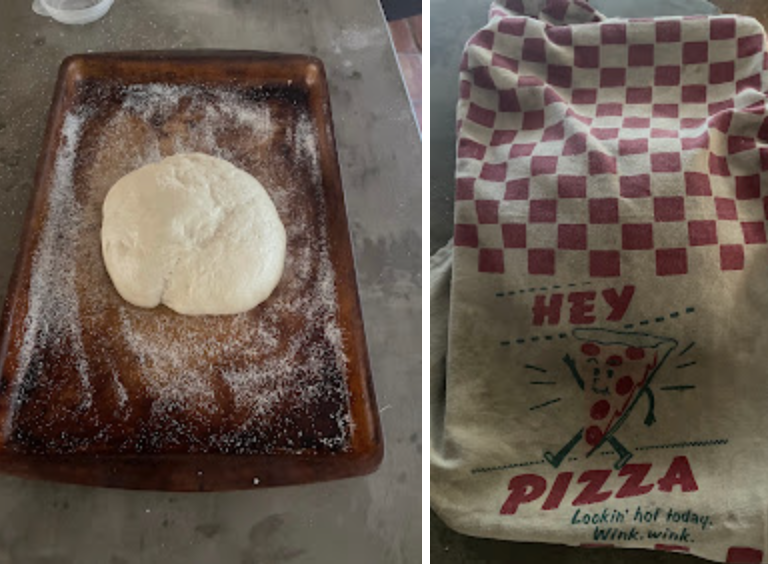
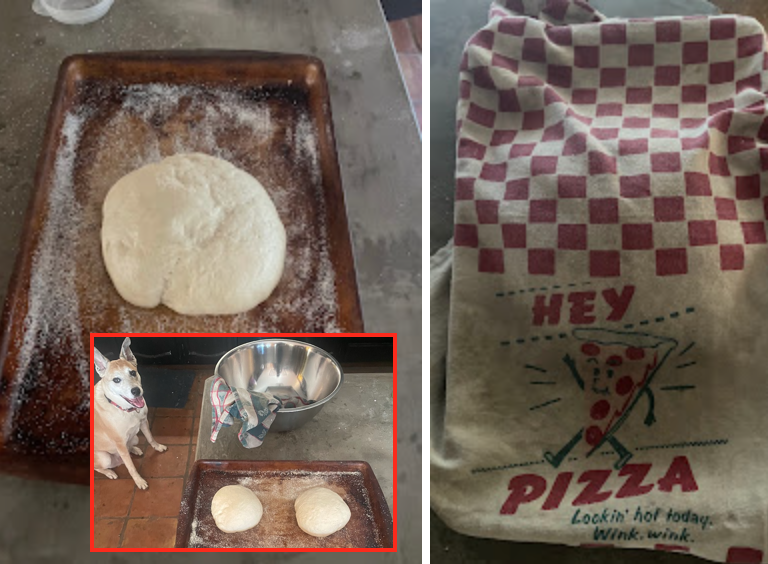
added more pic and video content and some hyperspear chapters edits

Changed region(s): [[0.0938, 0.5727, 0.5312, 0.9947]]

diff --git a/landingPages/hyperspearch1to3.html b/landingPages/hyperspearch1to3.html
@@ -55,13 +55,13 @@
                 <p><strong>I thought this would be an interesting way to concisely convey some important information to the reader without having to include those details in contrived dialogue or narration.&nbsp;</strong></p>
                 <p>&nbsp;</p>
                 <p><strong>If the story jumps forward or backward in time within a chapter, the updated time and setting are displayed in the following format:</strong><strong><br /></strong><strong>Timestamp | H-ID | Details&nbsp;</strong></p>
-                <p><span style="font-weight: 300;">(Year, Month, Day, time in 24 hour format, timezone|extraneous detail|setting)</span></p>
+                <p><span style="font-weight: 300;">(Year, Month, Day, time in 24-hour format, timezone|extraneous detail|setting)</span></p>
                 <p><strong>&nbsp;</strong></p>
                 <p><br /><br /><br /><br /></p>
                 <p>
-                    <strong>1:</strong><strong> Filename:&nbsp; &lsquo; Jenna&rsquo;s Halibut Of Eating Alone&rsquo;,</strong>
+                    <strong>1:</strong><strong> Filename:&nbsp; &lsquo; Jenna Breaks Her Halibut Of Eating Alone&rsquo;,</strong>
                 </p>
-                <p><strong>Timestamp: 2042-08-15T18:22:37:PST</strong><span style="font-weight: 300;">,</span></p>
+                <p><strong>Timestamp: 2042-08-15T17:52:37:PST</strong><span style="font-weight: 300;">,</span></p>
                 <p><strong>Details: &lsquo;Jenna Carson, Fremont-CA, Neighborhoods&rsquo;,&nbsp;</strong></p>
                 <p><strong>H-ID: 28d0086c-da60-44e5-9c9b-54abfbe4154c,</strong></p>
                 <p><strong>Transcript:</strong></p>
@@ -77,19 +77,17 @@
                 <p><span style="font-weight: 300;">&ldquo;I noticed that.&rdquo; His dark eyes twinkle as he sets the pitcher next to a cluster of mason jars in the middle of the table.&nbsp;</span></p>
                 <p><span style="font-weight: 300;">&ldquo;Fresh from the tree this morning.&rdquo; He jerks his thumb over his shoulder indicating the lollipop lemon trees.&nbsp;</span></p>
                 <p><span style="font-weight: 300;">&ldquo;It&rsquo;s really good.&rdquo; I take a sip. &ldquo;Actually&rdquo; I smile, my eyes fixed on the lollipop trees.&nbsp; &ldquo;It r</span><span style="font-weight: 300;">eminds</span><span style="font-weight: 300;"> me of my mom&rsquo;s lemonade,&rdquo; I sigh, &ldquo;she always used to make it from scratch with Meyer lemons and a couple basil leaves.&rdquo; My eyes and tone droop. &ldquo;It's been a long time since I had fresh lemonade.&rdquo;</span></p>
-                <p><span style="font-weight: 300;">&nbsp;</span> <span style="font-weight: 300;">The man&rsquo;s brow slopes sympathetically. &ldquo;Life doesn&rsquo;t just go around handing folks lemons.&rdquo; He clanks his glass down on the table and gestures around his yard. &ldquo;You&rsquo;ve gotta turn some soil and&nbsp; plant some trees if you want good lemonade.&rdquo;</span></p>
-                <p><span style="font-weight: 300;">I chuckle.</span></p>
-                <p><span style="font-weight: 300;">&ldquo;By the way,&rdquo; he extends his hand towards me, &ldquo;I&rsquo;m Jeff.&rdquo;&nbsp;</span></p>
+                <p><span style="font-weight: 300;">&nbsp;</span> <span style="font-weight: 300;">The man&rsquo;s brow slopes sympathetically. &ldquo;Life doesn&rsquo;t just go around handing folks lemons.&rdquo; He clanks his glass down on the table and gestures around his yard. &ldquo;You&rsquo;ve gotta turn some soil and&nbsp; plant some trees if you want good lemonade.&rdquo; He extends his hand towards me. &ldquo;By the way, I&rsquo;m Jeff.&rdquo;</span></p>
                 <p><span style="font-weight: 300;">&ldquo;Sorry&rdquo;, I wince as I envelop his dry rough hand in my frail sweating one. &ldquo;I&rsquo;m Jenna.&rdquo; I laugh nervously. &ldquo;I saw the pitcher of&nbsp; lemonade and all the empty mason jars and I guess I thought I was supposed to just sit down and have some.&rdquo;&nbsp;</span></p>
                 <p><span style="font-weight: 300;">&ldquo;And you were right.&rdquo; He grins. &ldquo;Do you have a house in this neighborhood?&rdquo;</span></p>
                 <p><span style="font-weight: 300;">&ldquo;I wish.&rdquo;&nbsp; I press the mason jar to my face. &ldquo;Actually, I was stuck in traffic next to your van this morning, so I scanned the QR code on it and went to your website.&rdquo; I lower my lemonade, affixing my gaze to his, &ldquo;but I&rsquo;m still a bit confused about what you&rsquo;re doing.&rdquo;&nbsp;</span></p>
                 <p><span style="font-weight: 300;">He shrugs. &ldquo;I&rsquo;m just gathering folks together to share a meal once a week.&rdquo;</span></p>
                 <p><span style="font-weight: 300;">&nbsp;</span> <em><span style="font-weight: 300;">Why does that sound so nice and so creepy at the same time?</span></em></p>
-                <p><span style="font-weight: 300;">&nbsp;&nbsp;</span> <span style="font-weight: 300;">I nod, waiting for him to say more, but he just starts sipping his lemonade.</span></p>
+                <p><span style="font-weight: 300;">&nbsp;&nbsp;</span> <span style="font-weight: 300;">I wait for him to say more, but he just starts sipping his lemonade.</span></p>
                 <p><span style="font-weight: 300;">&nbsp;&ldquo;So are the others coming later or&hellip;?&rdquo; My voice trails off</span></p>
-                <p><span style="font-weight: 300;">&nbsp;</span> <span style="font-weight: 300;">&ldquo;Dinner&rsquo;s at 6:30.&rdquo; The man shrugs, &ldquo;and I don&rsquo;t require an RSVP.&rdquo;</span></p>
-                <p><span style="font-weight: 300;">I nod, as if this is a satisfying response. But it&rsquo;s not. Not knowing how many strangers are going to be elbow to elbow with me at this table stresses me out.</span></p>
-                <p><span style="font-weight: 300;">The intricate symphony of birds and insects chirping and buzzing around us is starting to remind me of the quiet moment before the jump scare in a horror film.</span></p>
+                <p><span style="font-weight: 300;">&nbsp;</span> <span style="font-weight: 300;">&ldquo;It's like my website says, dinner’s at 6:30.No RSVP required.” Jeff shrugs.</span></p>
+                <p><span style="font-weight: 300;">I nod, as if this is a satisfying response. But it&rsquo;s not. Not knowing how many strangers are going to be elbow to elbow with me at this table stresses me out,</span></p>
+                <p><span style="font-weight: 300;">and the intricate symphony of birds and insects chirping and buzzing around us is starting to remind me of the quiet moment before the jump scare in a horror film.</span></p>
                 <p><span style="font-weight: 300;">I take another sip of lemonade swishing the sweet-tart-wholesome goodness around my mouth.&nbsp;</span></p>
                 <p><span style="font-weight: 300;">He sips from his jar.</span></p>
                 <p><em><span style="font-weight: 300;">Why did I come here? I could be home on my couch in my underwear, eating cold chow mein and playing Skyrim right now, but nooo, I haaad to see the sign on this guy&rsquo;s stupid van.</span></em></p>
@@ -100,7 +98,7 @@
                 <p><span style="font-weight: 300;">He sips from his jar.</span><span style="font-weight: 300;"><br /></span> <span style="font-weight: 300;">I set my jar on the table and stare at it trying to mentally assess my internal organs for signs of poisoning.&nbsp;</span></p>
                 <p><span style="font-weight: 300;">He sips from his jar.</span></p>
                 <p><em><span style="font-weight: 300;">The plants are pretty tall. I wonder if this picnic table is even visible from across the street. </span></em><em><span style="font-weight: 300;"><br /></span></em> <span style="font-weight: 300;">He sips.</span></p>
-                <p><span style="font-weight: 300;">I imagine myself sprinting through the sunflowers and across the street to my car.</span></p>
+                <p><span style="font-weight: 300;">I imagine myself sprinting through the sunflowers to my car.</span></p>
                 <p><span style="font-weight: 300;">He sips.</span></p>
                 <p><span style="font-weight: 300;">My sense of propriety glues me to the picnic bench.</span></p>
                 <p><span style="font-weight: 300;">&nbsp;</span> <span style="font-weight: 300;">Ice clinks at the bottom of Jeff&rsquo;s mason jar. &ldquo;So tell me Jenna,&rdquo;&nbsp; he lets out a satisfied sigh as he sets the empty jar on the table, &ldquo; If a Martian observed you through a super-powered telescope for the last year, what would he say about you?&rdquo;</span></p>
@@ -111,7 +109,7 @@
                 <p><em><span style="font-weight: 300;">Why do I always show up so early for everything.&nbsp;</span></em></p>
                 <p><span style="font-weight: 300;">I take another sip of lemonade. I think I detect a bitter note to it.&nbsp;</span></p>
                 <p><span style="font-weight: 300;">I don&rsquo;t swallow.&nbsp;</span></p>
-                <p><span style="font-weight: 300;">I raise my jar back to my lips and subtly spit my lemonade back in. &ldquo;So why have dinner with strangers?&rdquo;</span></p>
+                <p><span style="font-weight: 300;">Raising my jar back to my lips, I subtly spit lemonade back in. &ldquo;So why have dinner with strangers?&rdquo;</span></p>
                 <p><span style="font-weight: 300;">&nbsp;</span> <span style="font-weight: 300;">Jeff narrows his eyes at my lemonade jar, clearly nonplussed by my backwash.</span></p>
                 <p><span style="font-weight: 300;">&ldquo;I almost swallowed a seed.&rdquo; I lie.</span></p>
                 <p><span style="font-weight: 300;">&nbsp;</span> <span style="font-weight: 300;">&ldquo;You must be pretty hungry then&rdquo;, Jeff winks &ldquo;I&rsquo;m making baked Halibut and rice for dinner.&rdquo;&nbsp; He presses himself up from the table. &ldquo;Would you mind carrying some things out from the house?&rdquo;&nbsp;</span></p>
@@ -124,7 +122,6 @@
                 <p><span style="font-weight: 300;">&nbsp;</span> <span style="font-weight: 300;">He flashes an amused smile. &ldquo;Alright. I&rsquo;m in the Halibut of eating alone anyway.&rdquo;</span></p>
                 <p><span style="font-weight: 300;">&ldquo;Sorry.&rdquo; I wince. &ldquo;I can&rsquo;t believe I forgot.&rdquo; I slide my purse strap over my shoulder. &ldquo;I share custody of him with my ex, so I totally spaced that today is my turn.&rdquo;</span></p>
                 <p><span style="font-weight: 300;">I scuffle down the gravel path tossing a quick. &ldquo;Thanks-again-see-you-around.&rdquo; Over my shoulder as I dart across the street.</span></p>
-                <p>&nbsp;</p>
                 <p><span style="font-weight: 300;">&nbsp;</span> <span style="font-weight: 300;">Grimacing, I fumble for the blazing hot door handle to my baby blue Kharmann Ghia and slide inside letting out a deep sigh of relief as I crank down the manual windows.&nbsp;</span></p>
                 <p><span style="font-weight: 300;">Without glancing back at Jeff&rsquo;s house, I jam my key into the ignition and turn it.&nbsp;</span></p>
                 <p><span style="font-weight: 300;">A muffled &ldquo;Vrrwuuhh&rdquo; issues from my engine.</span></p>
@@ -144,15 +141,15 @@
                 <p><span style="font-weight: 300;">She acts like she doesn&rsquo;t hear me.</span></p>
                 <p><span style="font-weight: 300;">&ldquo;Excuse me,&rdquo; I flail my hands over my head.</span><span style="font-weight: 300;"><br /></span> <span style="font-weight: 300;">Huffing, she silences her disc man as she jogs towards me.</span></p>
                 <p><span style="font-weight: 300;">&ldquo;Sup?&rdquo; the neon lady pants, jogging in place in front of me &ldquo;Do you need something?&rdquo;</span></p>
-                <p><span style="font-weight: 300;">I smile hopefully. &ldquo;My car battery died I think.&rdquo; I push my door shut. &ldquo;Do you live around here? Do you have jumper cables I could use?&rdquo;&nbsp;</span></p>
+                <p><span style="font-weight: 300;">I smile, hopefully. &ldquo;My car battery died I think.&rdquo; I push my door shut. &ldquo;Do you live around here? Do you have jumper cables I could use?&rdquo;&nbsp;</span></p>
                 <p><span style="font-weight: 300;">Dabbing at her eyelid sweat with the corner of her pink t-shirt, her face pixelates.</span></p>
                 <p><span style="font-weight: 300;">As I wait for her glitch to pass, I glance behind me. Jeff is no longer at the picnic table.&nbsp;</span></p>
-                <p><span style="font-weight: 300;">&ldquo;I don&rsquo;t have jumper cables.&rdquo; The woman&rsquo;s face is back to normal, &ldquo;but I bet my friend Jeff does.&rdquo;</span></p>
+                <p><span style="font-weight: 300;">&ldquo;I don't have jumper cables.&rdquo; The woman&rsquo;s face is back to normal, &ldquo;but I bet my friend Jeff does.&rdquo;</span></p>
                 <p><span style="font-weight: 300;">She stops jogging in place and yells, &ldquo;Hey Jeff.&rdquo; She points at me, &ldquo;this girl needs help jump-starting her car.&rdquo;</span></p>
                 <p><span style="font-weight: 300;">Wincing, I turn back toward Jeff&rsquo;s yard. He&rsquo;s already walking down his front path carrying jumper cables.</span></p>
                 <p>&nbsp;</p>
                 <p><strong>2042-08-15T20:37:04PST|28d0086c-da60-44e5-9c9b-54abfbe4154c|&lsquo;later at Jenna\&rsquo;s Apartment</strong><span style="font-weight: 300;">&rsquo;</span></p>
-                <p><span style="font-weight: 300;">&nbsp;</span> <span style="font-weight: 300;">&ldquo;He&rsquo;s a mutt, they said he&rsquo;s a Terrier-Shepherd mix.&rdquo; I smile at my friend, Xenia as I push aside my plastic vertical blinds and slide open my glass patio door.</span></p>
+                <p><span style="font-weight: 300;">&nbsp;</span> <span style="font-weight: 300;">&ldquo;The lady who sold him to me said he&rsquo;s a Terrier-Shepherd mix.&rdquo; I smile at my friend, Xenia as I push aside my plastic vertical blinds and slide open my glass patio door.</span></p>
                 <p><span style="font-weight: 300;">&nbsp;</span> <span style="font-weight: 300;">Pajama, my new dog, wags his tail looking up innocently from my patio floor as he chomps on bits of the leg from my blue Adirondack chair.&nbsp;</span></p>
                 <p><span style="font-weight: 300;">&nbsp;</span> <span style="font-weight: 300;">&ldquo;I don&rsquo;t know about Shepherd,&rdquo; Xenia cringes, &ldquo;but he&rsquo;s definitely terrier&rsquo;n your chair up.&rdquo;</span></p>
                 <p><span style="font-weight: 300;">&nbsp;</span> <span style="font-weight: 300;">I stifle a laugh as I squat to face my new dog. &ldquo;I don&rsquo;t think this patio is big enough for him.&rdquo; I reach a tentative hand towards Pajama and a low growl escapes his throat as I tug at the mangled wood clenched in his teeth.</span></p>
@@ -160,33 +157,33 @@
                 <p><span style="font-weight: 300;">&nbsp;</span> <span style="font-weight: 300;">&ldquo;Lets not find out.&rdquo; Xenia kneels and in one swift motion, yanks the wood free from Pajama&rsquo;s jaws and tosses it over my patio wall.</span></p>
                 <p><span style="font-weight: 300;">&nbsp;</span> <span style="font-weight: 300;">&ldquo;You're our hero.&rdquo; I beam at Xenia. &ldquo;I think I&rsquo;m going to have to find a place with a yard.&rdquo;</span></p>
                 <p><span style="font-weight: 300;">&nbsp;</span> <span style="font-weight: 300;">Xenia slumps forward as she sits in the (now damaged) chair next to Pajama, scratching him between the ears.</span></p>
-                <p><span style="font-weight: 300;">&nbsp;&ldquo;Let me get this straight,&rdquo; she chuckles, &ldquo;you bought a dog, so you&rsquo;d feel comfortable going to dinner at some stranger&rsquo;s house and now you&rsquo;re going to buy a house to make the dog feel more comfortable.&rdquo;&nbsp;</span></p>
+                <p><span style="font-weight: 300;">&nbsp;&ldquo;Let me get this straight,&rdquo; she chuckles, &ldquo;you bought a dog, so you&rsquo;d feel comfortable going to dinner at some stranger&rsquo;s house and now you&rsquo;re going to buy a house to make the dog feel more comfortable?&rdquo;&nbsp;</span></p>
                 <p><span style="font-weight: 300;">Xenia shades her eyes and looks up at me tauntingly. &ldquo;Where have I heard this before?&rdquo; A grin spreads across her face as she begins singing. &ldquo;There was an old lady who swallowed a fly.&rdquo;</span></p>
                 <p><span style="font-weight: 300;">&nbsp;</span> <span style="font-weight: 300;">&ldquo;Oh stop.&rdquo; I air-swat her. &ldquo;Pajama&rsquo;s the only one around here swallowing flies.&rdquo;&nbsp;</span></p>
-                <p><span style="font-weight: 300;">&nbsp;</span> <span style="font-weight: 300;"> Xenia leans back, crossing her arms. &ldquo;You better take him to training classes. &lsquo;Cause Pajama looks like he&rsquo;s fixin&rsquo; to terrier couch next.&rdquo;</span></p>
+                <p><span style="font-weight: 300;">&nbsp;</span> <span style="font-weight: 300;"> Xenia leans back, crossing her arms. &ldquo;You better take him to training classes. &lsquo;Cause Pajama looks like he&rsquo;s fixin&rsquo; to terrier couch up next.&rdquo;</span></p>
                 <p><span style="font-weight: 300;">&nbsp;</span> <span style="font-weight: 300;">&ldquo;Definitely.&rdquo; I nod.</span></p>
                 <p><span style="font-weight: 300;">&ldquo;Hey,&rdquo; I nudge Xenia, &ldquo;why don&rsquo;t you come with me to dinner next week?&rdquo; I hug her arm. &ldquo;From what I could smell, I think he&rsquo;s a really good cook.&rdquo;</span></p>
-                <p><span style="font-weight: 300;">&nbsp;</span> <span style="font-weight: 300;">&ldquo;And I&rsquo;ll bet he loved having a fresh young girl to share his fresh fish with!&rdquo; Xenia, tosses her black curls over her shoulder, eying her fingernail polish. &ldquo;He sounds like some kind of Traddy Daddy cult leader.&rdquo;</span></p>
-                <p><span style="font-weight: 300;">I cringe, recalling his flannel shirt and unsettling hospitality. &ldquo;He did kind of have an old farmer seeks young milk maid, kinda vibe.&rdquo;&nbsp;&nbsp;</span></p>
+                <p><span style="font-weight: 300;">&nbsp;</span> <span style="font-weight: 300;">&ldquo;And I&rsquo;ll bet he loved having a fresh young girl to share fresh fish with!&rdquo; Xenia, tosses her black curls over her shoulder, eying her fingernail polish. &ldquo;He sounds like some kind of Traddy daddy cult leader.&rdquo;</span></p>
+                <p><span style="font-weight: 300;">I cringe, recalling his flannel shirt and unsettling hospitality. &ldquo;He did mention UFOs.&rdquo;&nbsp;&nbsp;</span></p>
                 <p><span style="font-weight: 300;">&ldquo;Seriously though.&rdquo; I pause until Xenia looks up from her nails. &ldquo;Please come with me.&rdquo;&nbsp;</span></p>
                 <p><span style="font-weight: 300;">Xenia rolls her eyes. &ldquo;Fine, glitch.&rdquo; She envelops me in a side hug. &ldquo;If you want, I&rsquo;ll even stay here tonight and protect you from your guard dog.&rdquo;</span></p>
                 <p><br /><br /><br /><br /></p>
                 <p><strong>2:</strong> <strong>Filename: &lsquo;Xenia Melon Balls Out Of Control&rsquo;,</strong></p>
-                <p><strong>Timestamp: 2042-08-22T18:34:37:PST,</strong><span style="font-weight: 300;">&nbsp;</span></p>
+                <p><strong>Timestamp: 2042-08-22T18:22:37:PST,</strong><span style="font-weight: 300;">&nbsp;</span></p>
                 <p><strong>Details: &lsquo;Xenia Chloros, Fremont-CA, Neighborhoods&rsquo;,</strong></p>
                 <p><strong>H-ID: 81feeffe-0067-4226-9c41-313509217b49,</strong></p>
                 <p><strong>Transcript:</strong></p>
                 <p>&nbsp;</p>
                 <p><span style="font-weight: 300;">&nbsp;</span> <span style="font-weight: 300;">Exasperated, I let my head thud against the back window of my black 1959 F-100 as I squeeze my eyes shut.&nbsp;</span></p>
-                <p><span style="font-weight: 300;">Crunching the last bits of a peach lollipop between my molars, cellphone pressed to my temple, I wait for Jenna&rsquo;s voicemail robot to finish reading her number to me.&nbsp; &ldquo;Glitch!&rdquo; I chomp my candy. &ldquo;I&rsquo;m here, where are you?&rdquo; I hang up.</span></p>
+                <p><span style="font-weight: 300;">Cellphone pressed to my temple, I crunch the last bits of a peach lollipop between my molars and wait for Jenna&rsquo;s voicemail robot to finish reading her number to me.&nbsp; &ldquo;Glitch!&rdquo; I chomp my candy. &ldquo;I&rsquo;m here, where are you?&rdquo; I hang up.</span></p>
                 <p><span style="font-weight: 300;">&nbsp;</span> <em><span style="font-weight: 300;">I&rsquo;m giving her five minutes, then I&rsquo;m gone.</span></em></p>
                 <p><span style="font-weight: 300;">&nbsp;</span> <span style="font-weight: 300;">I glance at the clock on my phone.</span></p>
                 <p><span style="font-weight: 300;">6:22 PM</span></p>
-                <p><span style="font-weight: 300;">Whap-whap-whap! someone taps on my truck&rsquo;s window.&nbsp;</span></p>
-                <p><span style="font-weight: 300;">Sucking in air, I reel around to face some gray-bearded hippy with his knuckle resting on my window.&nbsp;</span></p>
+                <p><span style="font-weight: 300;">Whap-whap-whap! someone raps on my truck&rsquo;s window.&nbsp;</span></p>
+                <p><span style="font-weight: 300;">Sucking in air, I reel around to face some gray-bearded hippy waving at me.&nbsp;</span></p>
                 <p><span style="font-weight: 300;">He&rsquo;s tucked his black and blue plaid button up into his three-sizes-too-big jeans and the whole outfit is being held together by a beige nylon belt.</span></p>
                 <p><span style="font-weight: 300;">&ldquo;I noticed you&rsquo;ve been eyeing my house for at least ten minutes.&rdquo; He smiles. &ldquo;You here for dinner?&rdquo;</span></p>
-                <p><span style="font-weight: 300;">&nbsp;</span> <span style="font-weight: 300;">&ldquo;Yeah.&rdquo; Peeling up my sunglasses, I narrow my eyes. &ldquo;My friend Jenna invited me.&rdquo; I swing my door open forcing him to step back. &ldquo;She wanted me to protect her from the psycho-hippie-ufo-cult guy that lives here.&rdquo;</span></p>
+                <p><span style="font-weight: 300;">&nbsp;</span> <span style="font-weight: 300;">Peeling up my sunglasses, I narrow my eyes. &ldquo;Yup. My friend Jenna invited me.&rdquo; I swing my door open forcing him to step back. &ldquo;She wanted me to protect her from the psycho-hippie-ufo-cult guy that lives here.&rdquo;</span></p>
                 <p><span style="font-weight: 300;">&ldquo;Is that so?&rdquo; He chortles.</span></p>
                 <p><span style="font-weight: 300;">Tucking my sunglasses into the collar of my white baby-v-neck t-shirt I swivel my legs towards him. &ldquo;You haven&rsquo;t seen Jenna today have you?&rdquo;</span></p>
                 <p><span style="font-weight: 300;">&nbsp;</span> <span style="font-weight: 300;">&ldquo;Not since last week.&rdquo; He extends a hand to help me out of my truck.&nbsp;</span></p>
@@ -195,15 +192,15 @@
                 <p><span style="font-weight: 300;">He pokes his head into my truck cab.&nbsp;</span></p>
                 <p><span style="font-weight: 300;">I clear my throat.</span></p>
                 <p><span style="font-weight: 300;">&ldquo;Niiice!&rdquo; He withdraws his head and grins. &ldquo;Push button start.&rdquo;</span></p>
-                <p><span style="font-weight: 300;">&nbsp;</span> <span style="font-weight: 300;">I grab my door and glare at him. &ldquo;I converted it to a hybrid.&rdquo; I slam the door and lock it, sliding my keys into my purse.</span></p>
-                <p><span style="font-weight: 300;">&nbsp;</span> <span style="font-weight: 300;">He continues to ignore my rudeness. &ldquo;That sounds like a really cool project.&rdquo;</span></p>
-                <p><span style="font-weight: 300;">I lean back against the door. &ldquo;You can take the electrical engineer out of the country,&rdquo; I wipe my palms on my denim skirt, &ldquo;but you can&rsquo;t take the country out of the electrical engineer.&rdquo;</span></p>
+                <p><span style="font-weight: 300;">&nbsp;</span> <span style="font-weight: 300;">Grabbing my door, I glare at him. &ldquo;I converted it to a hybrid.&rdquo; I slam the door and lock it, sliding my keys into my purse.</span></p>
+                <p><span style="font-weight: 300;">&nbsp;</span> <span style="font-weight: 300;"> &ldquo;That sounds like a really cool project.&rdquo; He continues to ignore my rudeness.</span></p>
+                <p><span style="font-weight: 300;">&ldquo;Well,&rdquo; I lean back against my Ford. &ldquo;You can take the electrical engineer out of the country,&rdquo; I wipe my palms on my denim skirt, &ldquo;but you can&rsquo;t take the country out of the electrical engineer.&rdquo;</span></p>
                 <p><span style="font-weight: 300;">&ldquo;Wow!&rdquo; The hippy rocks back on his heels, grinning.&nbsp; &ldquo;that&rsquo;s a line.&rdquo;</span></p>
-                <p><span style="font-weight: 300;">&ldquo;It&rsquo;s not a line.&rdquo; My eyes narrow.&ldquo; It&rsquo;s Just a way to give you some information about me.&rdquo;</span><span style="font-weight: 300;"><br /></span> <span style="font-weight: 300;">&ldquo;Ok.&rdquo; he shrugs. &ldquo;May I be informed of your name.&rdquo;</span><span style="font-weight: 300;"><br /></span> <span style="font-weight: 300;">I shake my head, &ldquo;I haven&rsquo;t decided yet.&rdquo;</span><span style="font-weight: 300;"><br /></span> <span style="font-weight: 300;">&ldquo;Eyehavent Deciyet&rdquo; He laughs.&nbsp; &lsquo;is that German?&rdquo;&nbsp;</span></p>
-                <p><span style="font-weight: 300;">&ldquo;Wow,&rdquo; I stifle a laugh, &ldquo;You&rsquo;re a laaame old hippy.&rdquo;</span></p>
+                <p><span style="font-weight: 300;">&ldquo;As if I would drop <i>you</i> a line.&rdquo; My eyes narrow.&ldquo; I was just giving you some information about myself.&rdquo;</span><span style="font-weight: 300;"><br /></span> <span style="font-weight: 300;">&ldquo;Ok.&rdquo; he shrugs. &ldquo;May I be informed of your name.&rdquo;</span><span style="font-weight: 300;"><br /></span> <span style="font-weight: 300;">I shake my head, &ldquo;I haven&rsquo;t decided yet.&rdquo;</span><span style="font-weight: 300;"><br /></span> <span style="font-weight: 300;">&ldquo;Eyehavent Deciyet&rdquo; He laughs.&nbsp; &lsquo;is that German?&rdquo;&nbsp;</span></p>
+                <p><span style="font-weight: 300;">&ldquo;Huh,&rdquo; I roll my eyes, &ldquo;You&rsquo;re a laaame old hippy.&rdquo;</span></p>
                 <p><span style="font-weight: 300;">&ldquo;I can&rsquo;t argue with that.&rdquo; He shrugs.&nbsp;</span></p>
                 <p><span style="font-weight: 300;">Glancing around, the hippy lowers his voice. &ldquo;You&rsquo;re a user, aren&rsquo;t you?&rdquo; He raises his eyebrows.&nbsp;</span></p>
-                <p><span style="font-weight: 300;">&ldquo;Excuse me?&rdquo; I clench my jaw. &ldquo;Are you trying to sell me drugs?&rdquo;</span><span style="font-weight: 300;"><br /></span> <span style="font-weight: 300;">The hippie's face goes white, &ldquo;no no no no.&rdquo; He puts out his hands backing away from me. &ldquo;I&rsquo;m sober.&rdquo; He stammers. &ldquo;I just. Uhm.&rdquo; He laughs nervously. &ldquo;This is so dumb.&rdquo; He shakes his head. &ldquo;I thought I saw a pipe in your mouth earlier.&rdquo; He squeezes his eyes shut. &ldquo;I just can&rsquo;t be around that, so I had to ask.&rdquo;&nbsp;</span></p>
+                <p><span style="font-weight: 300;">&ldquo;Excuse me?&rdquo; I clench my jaw. &ldquo;Are you trying to sell me drugs?&rdquo;</span><span style="font-weight: 300;"><br /></span> <span style="font-weight: 300;">The hippie's face goes white, &ldquo;no no no no.&rdquo; He puts out his hands backing away from me. &ldquo;I&rsquo;m sober.&rdquo; He stammers. &ldquo;I just. Uhm.&rdquo; He laughs nervously. &ldquo;I thought I saw a pipe in your mouth earlier. I just can&rsquo;t be around that, so I had to ask.&rdquo;&nbsp;</span></p>
                 <p><span style="font-weight: 300;">&ldquo;A pipe?&rdquo; I scoff. &ldquo;I was eating a lollipop, you glitching Narc.&rdquo;</span></p>
                 <p><span style="font-weight: 300;">&ldquo;My apologies.&rdquo; The narc temples his fingers, bowing his head.</span></p>
                 <p><span style="font-weight: 300;">&ldquo;Anyway,&rdquo; He starts towards his house, pausing at the front walk. &ldquo;Dinner&rsquo;s not ready yet. </span><em><span style="font-weight: 300;">If</span></em><span style="font-weight: 300;"> you&rsquo;re staying,&rdquo; The narc shrugs contritely, &ldquo;you can wait at the table in the yard.&rdquo; He indicates an aging pinewood picnic table, unshaded in the blazing hot sun.</span></p>
@@ -254,7 +251,7 @@
                 <p><span style="font-weight: 300;">Jeff gushes about how brilliant Carmen&rsquo;s unnecessarily complicated plan is as he grabs a paring knife and a potato.&nbsp;</span></p>
                 <p><span style="font-weight: 300;">Minutes later a small mound of vegetable spheres has begun to form in a metal colander in the kitchen sink.&nbsp;</span></p>
                 <p><span style="font-weight: 300;">Jeff turns to Diego.&ldquo;I made this one special for you.&rdquo;</span></p>
-                <p><span style="font-weight: 300;">Craning my neck, I see Diego grinning at a bit of potato. He calls Carmen over and she giggles too and says how darling the potato lump is.</span></p>
+                <p><span style="font-weight: 300;">Craning my neck, I see Diego grinning at a bit of potato. He calls Carmen over, and she giggles too and says how darling the potato lump is.</span></p>
                 <p><span style="font-weight: 300;">&ldquo;Xena look at this,&rdquo; she beckons to me.</span></p>
                 <p><span style="font-weight: 300;">I suck in my breath. &ldquo;I am NOT a warrior princess,&rdquo; boards creek underfoot as I step towards Carmen. &ldquo;My name is pronounced Zen-y-uh&rdquo; I peer down at the potato ball. A circle has been gouged out. &ldquo;Oh. The Death Star.&rdquo; I shrug, cross my arms and go back to leaning against the cabinets.</span></p>
                 <p><span style="font-weight: 300;">&ldquo;Oh wow look at this&rdquo; Carmen coos, &ldquo;Jeff made a little potato baby yoda.&rdquo;</span></p>
@@ -280,7 +277,7 @@
                 <p><span style="font-weight: 300;">Luke hops out of his stroller, freezing and pixelating briefly, before giving two swift tugs on the back of my Vader cape. &ldquo;Daddy,&rdquo; He gazes up at me, &ldquo;what&rsquo;s a prediction for insess?&rdquo;</span></p>
                 <p><span style="font-weight: 300;">I take his tiny hand as we begin strolling towards the back of the line to take a picture with a life sized Java The Hut mannequin. &ldquo;It&rsquo;s Game of Thrones Stuff son.&rdquo;&nbsp;</span></p>
                 <p><span style="font-weight: 300;">Luke halts, drops my hand and peers up at me. &ldquo;Ooh.&rdquo;</span></p>
-                <p><span style="font-weight: 300;">Luke was scared to death one Sunday night when he walked in on Carmen and I streaming a classic episode of G.O.T.&nbsp;</span></p>
+                <p><span style="font-weight: 300;">Luke was scared to death one Sunday night when he walked in on Carmen and I, streaming a classic episode of G.O.T.&nbsp;</span></p>
                 <p><span style="font-weight: 300;">He&rsquo;s not a kid who likes violence, so now whenever we don&rsquo;t want him to pay attention to something, we just say it&rsquo;s Game of Thrones Stuff and he stops asking questions.</span></p>
                 <p><span style="font-weight: 300;">&nbsp;</span> <span style="font-weight: 300;">I reach down and take Luke&rsquo;s hand again. When I look up, a blonde woman dressed in a brown furry bodysuit with face painted brown and black, is wandering over to Carmen.&nbsp;</span></p>
                 <p><span style="font-weight: 300;">&ldquo;Mam, I was watching y&rsquo;all and I just have to say,&rdquo; she drawls. &ldquo;Your son is just plain adorable with his little lightsaber and all.&rdquo;</span></p>
@@ -318,14 +315,14 @@
                 <p><span style="font-weight: 300;">&nbsp;</span> <span style="font-weight: 300;">&ldquo;It smells delicious in here,&rdquo; Carmen coos as she sets her purse on the green corduroy sofa, beside the front door.</span></p>
                 <p><span style="font-weight: 300;">&nbsp;</span> <span style="font-weight: 300;">&ldquo;Thanks.&rdquo; Pride sweeps over Jeff&rsquo;s face. &ldquo;I put a chili cornbread casserole in the oven about twenty minutes ago.&rdquo;</span></p>
                 <p>&nbsp;</p>
-                <p><strong>2042-08-22T18:52:41PST|b54ba8fb-01fa-496e-b97c-e3aaef3fb11a|&lsquo;later, things get spicey</strong><span style="font-weight: 300;">&rsquo;</span><span style="font-weight: 300;">&nbsp;</span></p>
+                <p><strong>2042-08-22T18:52:41PST|b54ba8fb-01fa-496e-b97c-e3aaef3fb11a|&lsquo;later, things get spicy</strong><span style="font-weight: 300;">&rsquo;</span><span style="font-weight: 300;">&nbsp;</span></p>
                 <p><span style="font-weight: 300;">We&rsquo;re sitting on Jeff&rsquo;s couch watching his dog, Spice Rack, show off tricks when the oven timer dings.&nbsp;</span></p>
-                <p><span style="font-weight: 300;">Jeff rises from the couch,&nbsp; &ldquo;Can you two take the plates and silverware out to the picnic table while I grab the casserole and put My Spicey boy,&rdquo; Jeff puppy-talks as the dog wriggles and bounces on its front paws. &ldquo;into my bedroom?&ldquo;&nbsp;</span></p>
-                <p><span style="font-weight: 300;">&ldquo;No problem.&rdquo; I grab the stack of brown ceramic dishes and a coffee can filled with silverware from Jeff&rsquo;s kitchen counter.&nbsp;</span></p>
+                <p><span style="font-weight: 300;">Jeff rises from the couch,&nbsp; &ldquo;Can you two take the plates and silverware out to the picnic table while I grab the casserole and put <i>my spicy boy</i>,&rdquo; Jeff puppy-talks as the dog wriggles and bounces on its front paws. &ldquo;into my bedroom?&ldquo;&nbsp;</span></p>
+                <p><span style="font-weight: 300;">&ldquo;No problem.&rdquo; I grab the stack of brown ceramic dishes and a coffee can, filled with silverware from Jeff&rsquo;s kitchen counter.&nbsp;</span></p>
                 <p><span style="font-weight: 300;">&ldquo;Hey Diggy!&rdquo; Carmen swats my shoulder with the napkins she's carrying, &ldquo;can you grab the Salt and pepper from Jeff&rsquo;s dining room?&rdquo; </span><span style="font-weight: 300;"><br /></span> <span style="font-weight: 300;">&ldquo;You got it babe!&rdquo; I run back inside, passing Jeff as he exits with the casserole.</span></p>
                 <p><span style="font-weight: 300;">&nbsp;</span> <span style="font-weight: 300;">&ldquo;I don&rsquo;t think there actually is a dining room.&rdquo; I call out to no one in particular as I wander back into the kitchen and begin rummaging through Jeff&rsquo;s cabinets.</span></p>
                 <p><span style="font-weight: 300;">Grabbling a blue Morton salt canister, I trot outside.</span></p>
-                <p><span style="font-weight: 300;">&nbsp;&ldquo;I couldn&rsquo;t find any pepp&hellip;&rdquo; My voice trails off and my guts clench as I peer across the front yard.</span></p>
+                <p><span style="font-weight: 300;">&nbsp;&ldquo;I couldn&rsquo;t find any pepp&hellip;&rdquo; My gut clenches as I peer across the front yard.</span></p>
                 <p><span style="font-weight: 300;">Jeff and Carmen, bodies angled towards one another, turn away, suddenly silent.&nbsp;</span></p>
                 <p><span style="font-weight: 300;">Taking a deep, calming breath, I stride past the front garden beds towards the table.&nbsp;</span></p>
                 <p><span style="font-weight: 300;">Pursing my lips, I slam the salt canister down on the table directly in front of a set of ceramic salt and pepper shakers.</span></p>

diff --git a/main.js b/main.js
@@ -377,7 +377,9 @@ app.config(function($routeProvider,$locationProvider, $sceDelegateProvider) {
         let recipeList = $scope.recipesRaw?.length ? $scope.recipesRaw : $rootScope.data.recipes || [];
         $rootScope.data.featuredRecipe = recipeList.find(item=>item.name==docName);
         $rootScope.data.collapse_nav_scroll = true;
-        globalThis.scrollTo({ top: 0, left: 0, behavior: "smooth" });
+        $timeout(()=>{
+            globalThis.scrollTo({ top: 0, left: 0, behavior: "smooth" });
+        },25)
     }
 
     $scope.searchRecipes = function(term){
